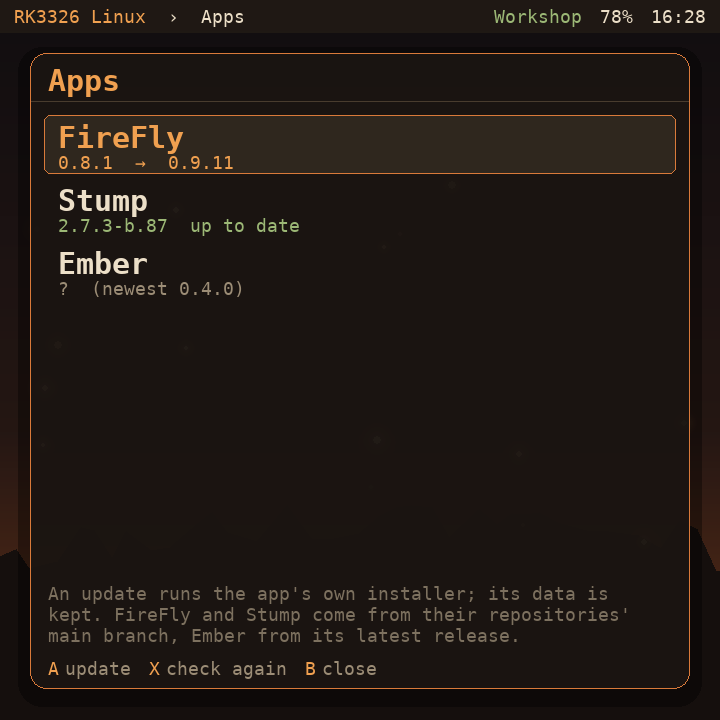
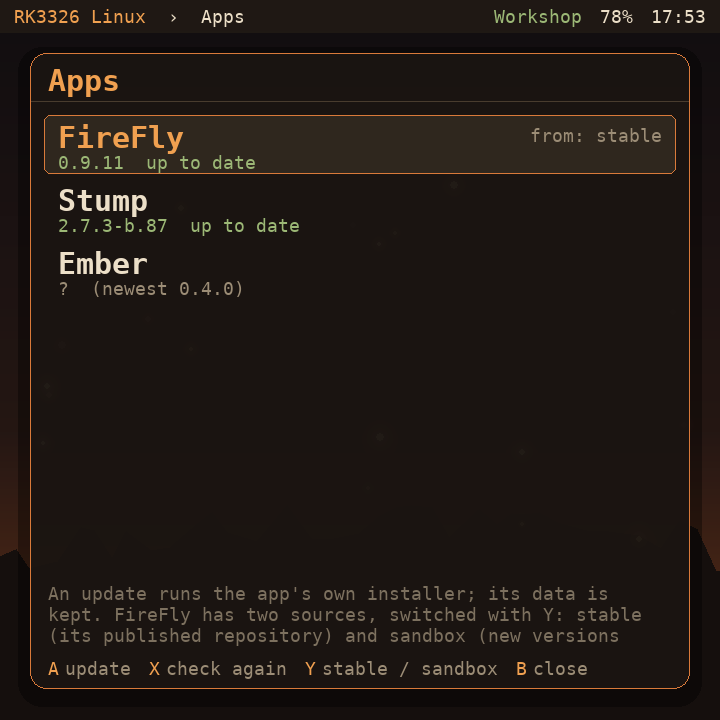
Apps: FireFly can update from its sandbox repository
FireFly 0.9.12 is in SandBox_FireFly_RK3326 while the published repository
is still at 0.9.11, so the Apps window could not offer it. rk-apps now has
two sources for FireFly, stable and sandbox; Y in the Apps window (or
'rk-apps source firefly sandbox') switches, and the row shows which is used.

Claude-Session: https://claude.ai/code/session_01Q4KZVCG4v531KAn4YG9359

diff --git a/shell/rkshell/pages/apps.py b/shell/rkshell/pages/apps.py
@@ -55,7 +55,10 @@ class AppsPage(Page):
         if self.view == "running":
             job = AppsPage.job
             return [("B", "back")] if job and job.done else [("B", "hide")]
-        return [("A", "update"), ("X", "check again"), ("B", "close")]
+        hints = [("A", "update"), ("X", "check again")]
+        if self.apps and self.apps[min(self.sel, len(self.apps) - 1)].get("source"):
+            hints.append(("Y", "stable / sandbox"))
+        return hints + [("B", "close")]
 
     def wants_back(self):
         return self.view == "running" and bool(AppsPage.job and AppsPage.job.done)
@@ -108,6 +111,13 @@ class AppsPage(Page):
             self.update(self.apps[self.sel])
         elif action == "x" and self.check is None:
             self.look()
+        elif action == "y" and self.apps and self.check is None:
+            a = self.apps[self.sel]
+            if a.get("source"):
+                to = "sandbox" if a["source"] == "stable" else "stable"
+                if self.app.system.app_source(a["id"], to):
+                    self.app.toast(f"{a['name']} now comes from its {to} repository", 3)
+                    self.look()
 
     # ---------------------------------------------------------------- draw
     def draw(self, surf, f, area):
@@ -127,10 +137,12 @@ class AppsPage(Page):
             text, colour, _ = self.state(a)
             G.text(surf, f.big, a["name"], (r.x + 14, r.y + 5), T.EMBER_BRIGHT if sel else T.TEXT)
             G.text(surf, f.small, G.fit(f.small, text, r.w - 28), (r.x + 14, r.y + 9 + f.line), colour)
+            if a.get("source"):
+                G.text(surf, f.small, "from: " + a["source"], (r.right - 14, r.y + 10), T.MUTED, right=True)
             y += row_h
         note = ("Checking again…" if self.check is not None else
-                "An update runs the app's own installer; its data is kept. FireFly and Stump come from their "
-                "repositories' main branch, Ember from its latest release.")
+                "An update runs the app's own installer; its data is kept. FireFly has two sources, switched "
+                "with Y: stable (its published repository) and sandbox (new versions land there first).")
         for k, ln in enumerate(G.wrap(f.small, note, area.w - 32)[:3]):
             G.text(surf, f.small, ln, (x, area.bottom - 3 * f.small_line - 6 + k * f.small_line), T.DIM)
 

diff --git a/shell/rkshell/system.py b/shell/rkshell/system.py
@@ -416,8 +416,8 @@ class AppVersions:
         ok, out = run([RK_APPS, "versions"], timeout=45)
         for line in out.splitlines() if ok else []:
             parts = line.split("|")
-            if len(parts) == 4:
-                self.apps.append(dict(zip(("id", "name", "installed", "newest"), parts)))
+            if len(parts) in (4, 5):
+                self.apps.append(dict(zip(("id", "name", "installed", "newest", "source"), parts)))
         self.done = True
 
 
@@ -867,6 +867,10 @@ class System:
     def app_update(self, app, password, replaces=None):
         return AppUpdate(app, password, replaces)
 
+    def app_source(self, app, source):
+        """Where an app's updates come from ("stable" or "sandbox"); FireFly has both."""
+        return run([RK_APPS, "source", app, source])[0]
+
     def stump_storage(self):
         return stump_storage()
 
@@ -960,10 +964,16 @@ class DemoSystem(System):
 
     def app_versions(self):
         job = AppVersions.__new__(AppVersions)
-        job.done, job.apps = True, [{"id": "firefly", "name": "FireFly", "installed": "0.8.1", "newest": "0.9.11"},
+        src = getattr(self, "_src", "stable")
+        job.done, job.apps = True, [{"id": "firefly", "name": "FireFly", "installed": "0.9.11", "source": src,
+                                     "newest": "0.9.12" if src == "sandbox" else "0.9.11"},
                                     {"id": "stump", "name": "Stump", "installed": "2.7.3-b.87", "newest": "2.7.3-b.87"},
                                     {"id": "ember", "name": "Ember", "installed": "?", "newest": "0.4.0"}]
         return job
+
+    def app_source(self, app, source):
+        self._src = source
+        return True
 
     def app_update(self, app, password, replaces=None):
         job = AppUpdate.__new__(AppUpdate)

diff --git a/docs/apps.md b/docs/apps.md
@@ -76,8 +76,14 @@ branch of their repositories (their GitHub releases lag behind); Ember from
 its latest release, since its binary is only built for releases. The window
 asks for this handheld's password, for the installers' root steps.
 
-The same from a terminal: `rk-apps versions` and
-`rk-apps update firefly|stump|ember|all`.
+FireFly has two sources. **stable** is its published repository
+(`FireFly_RK3326_R36MAX_R36S`); **sandbox** is `SandBox_FireFly_RK3326`, where
+a new version lands first. Press Y on FireFly's row to switch; the row shows
+which one is in use, and the choice is kept in `~/.config/rk-apps`.
+
+The same from a terminal: `rk-apps versions`,
+`rk-apps update firefly|stump|ember|all` and
+`rk-apps source firefly stable|sandbox`.
 
 ## Sound and volume
 
